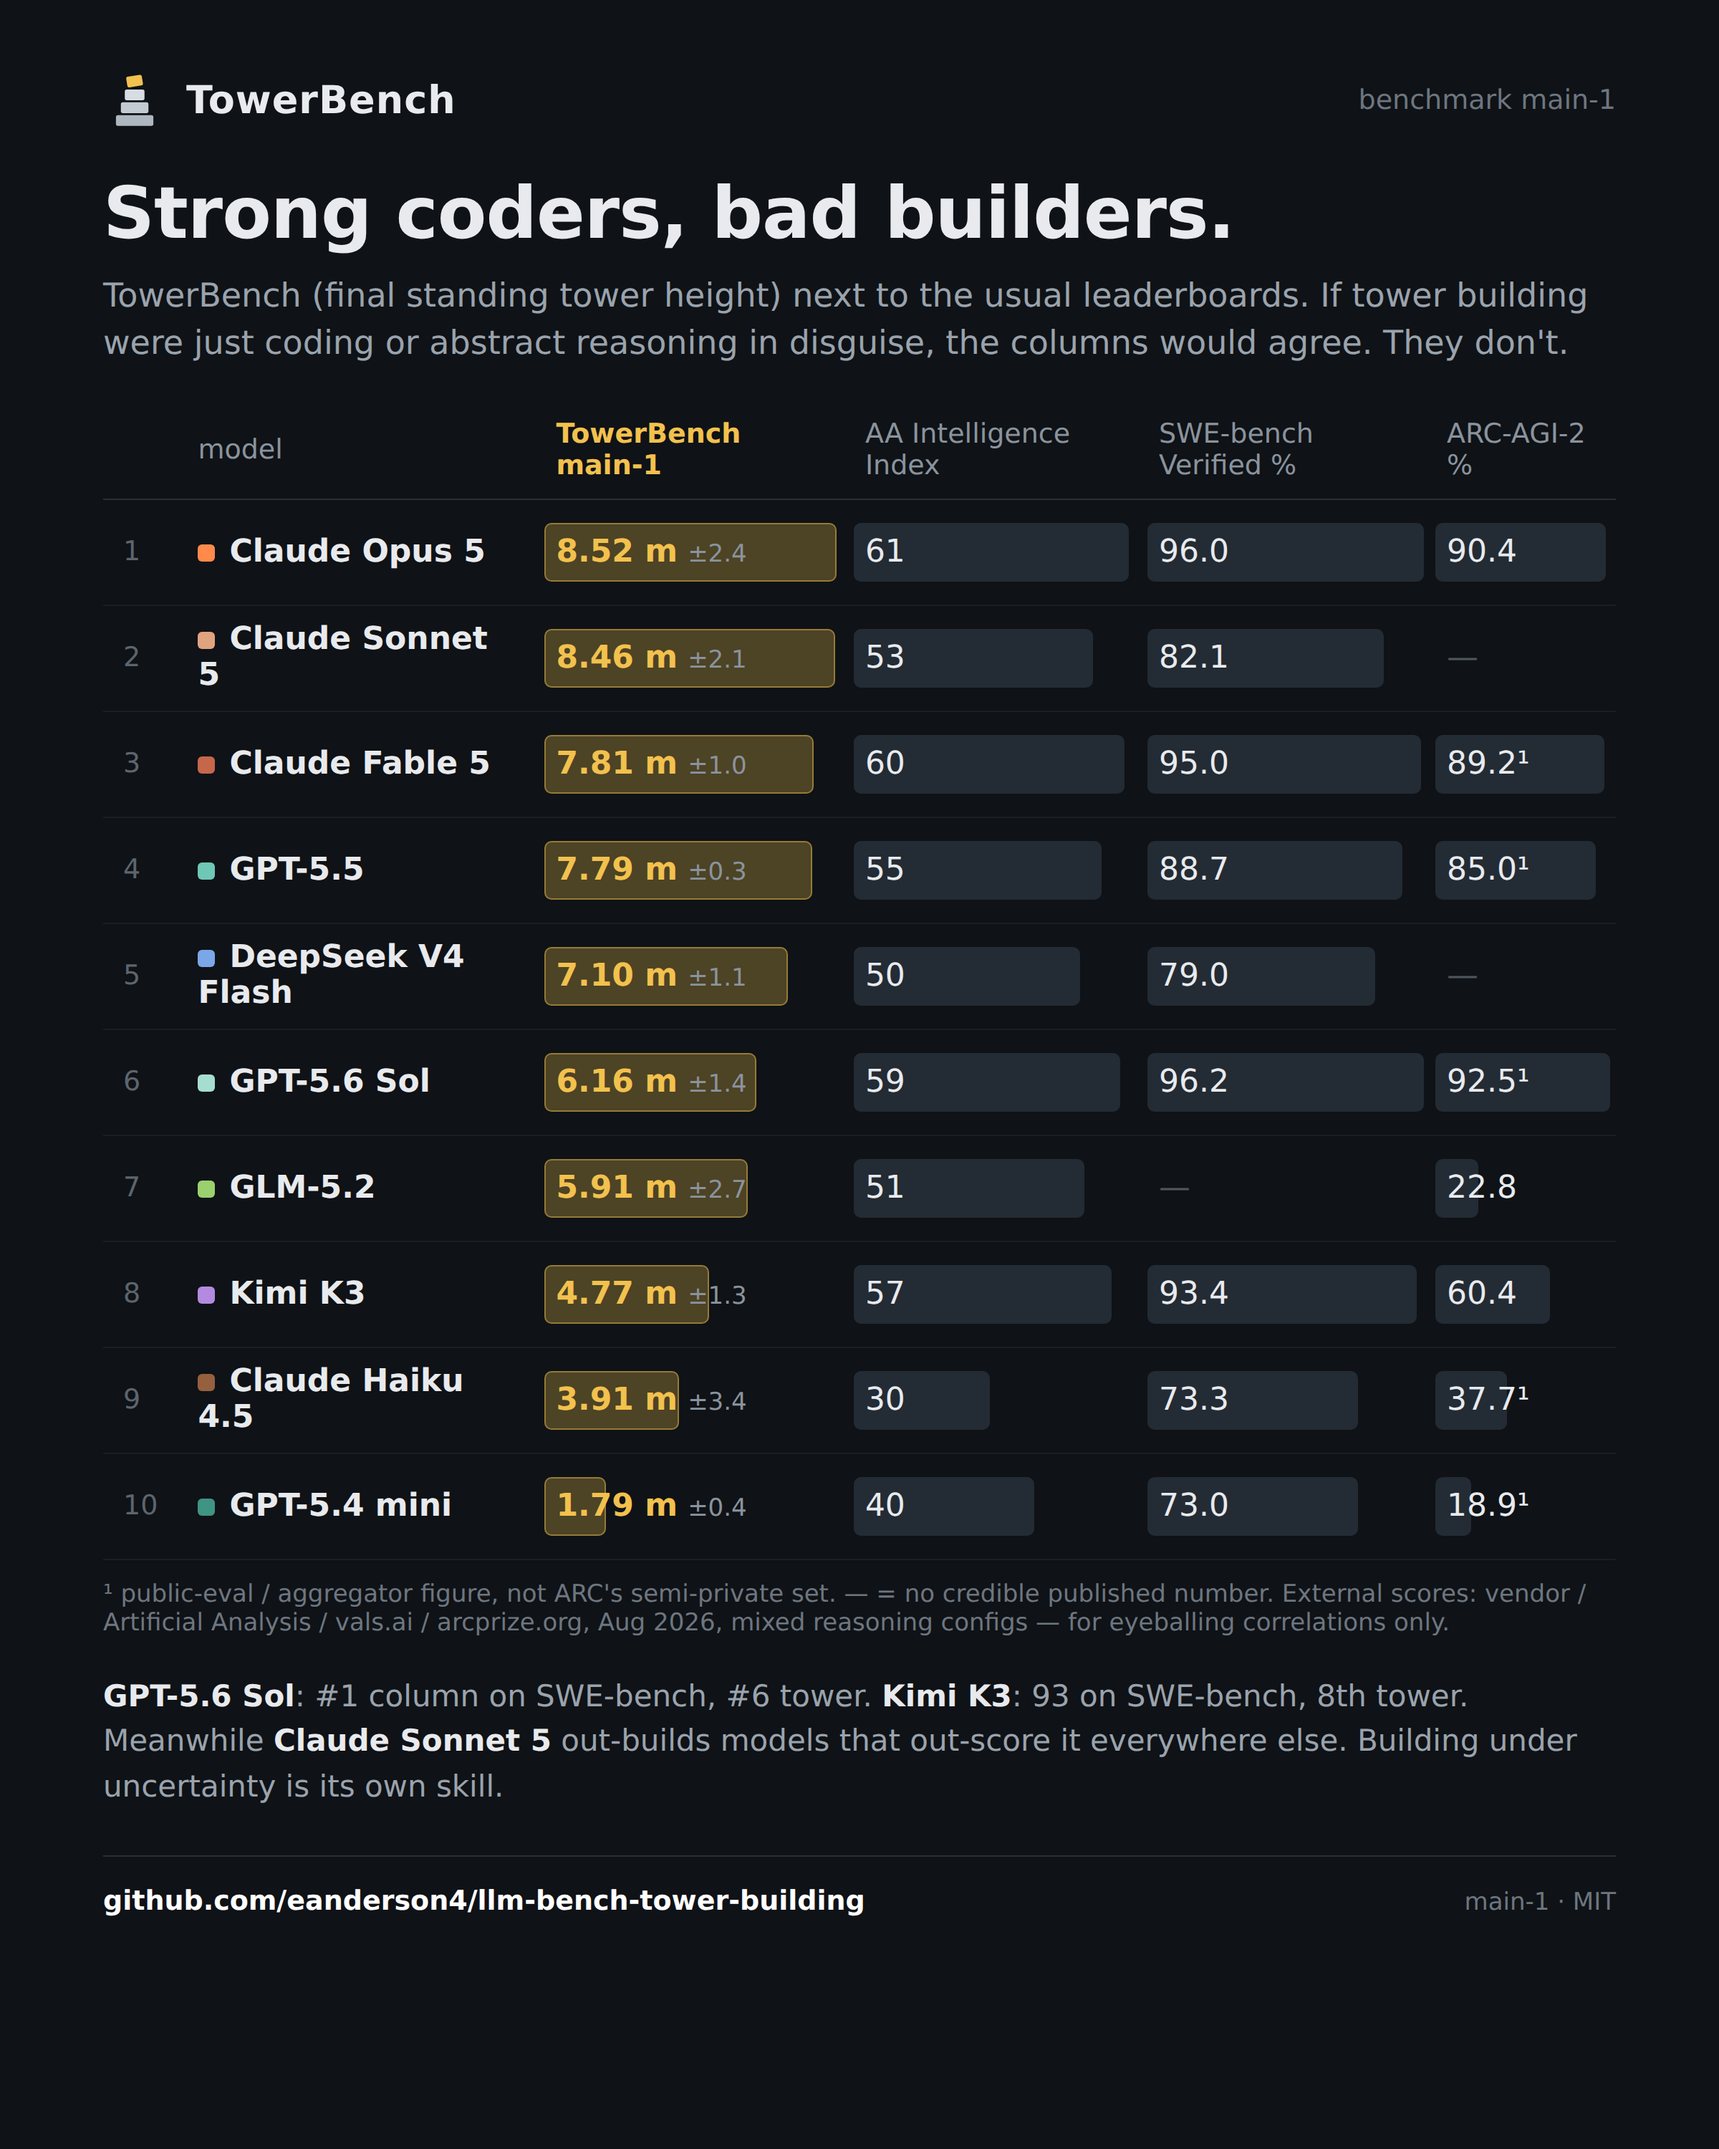
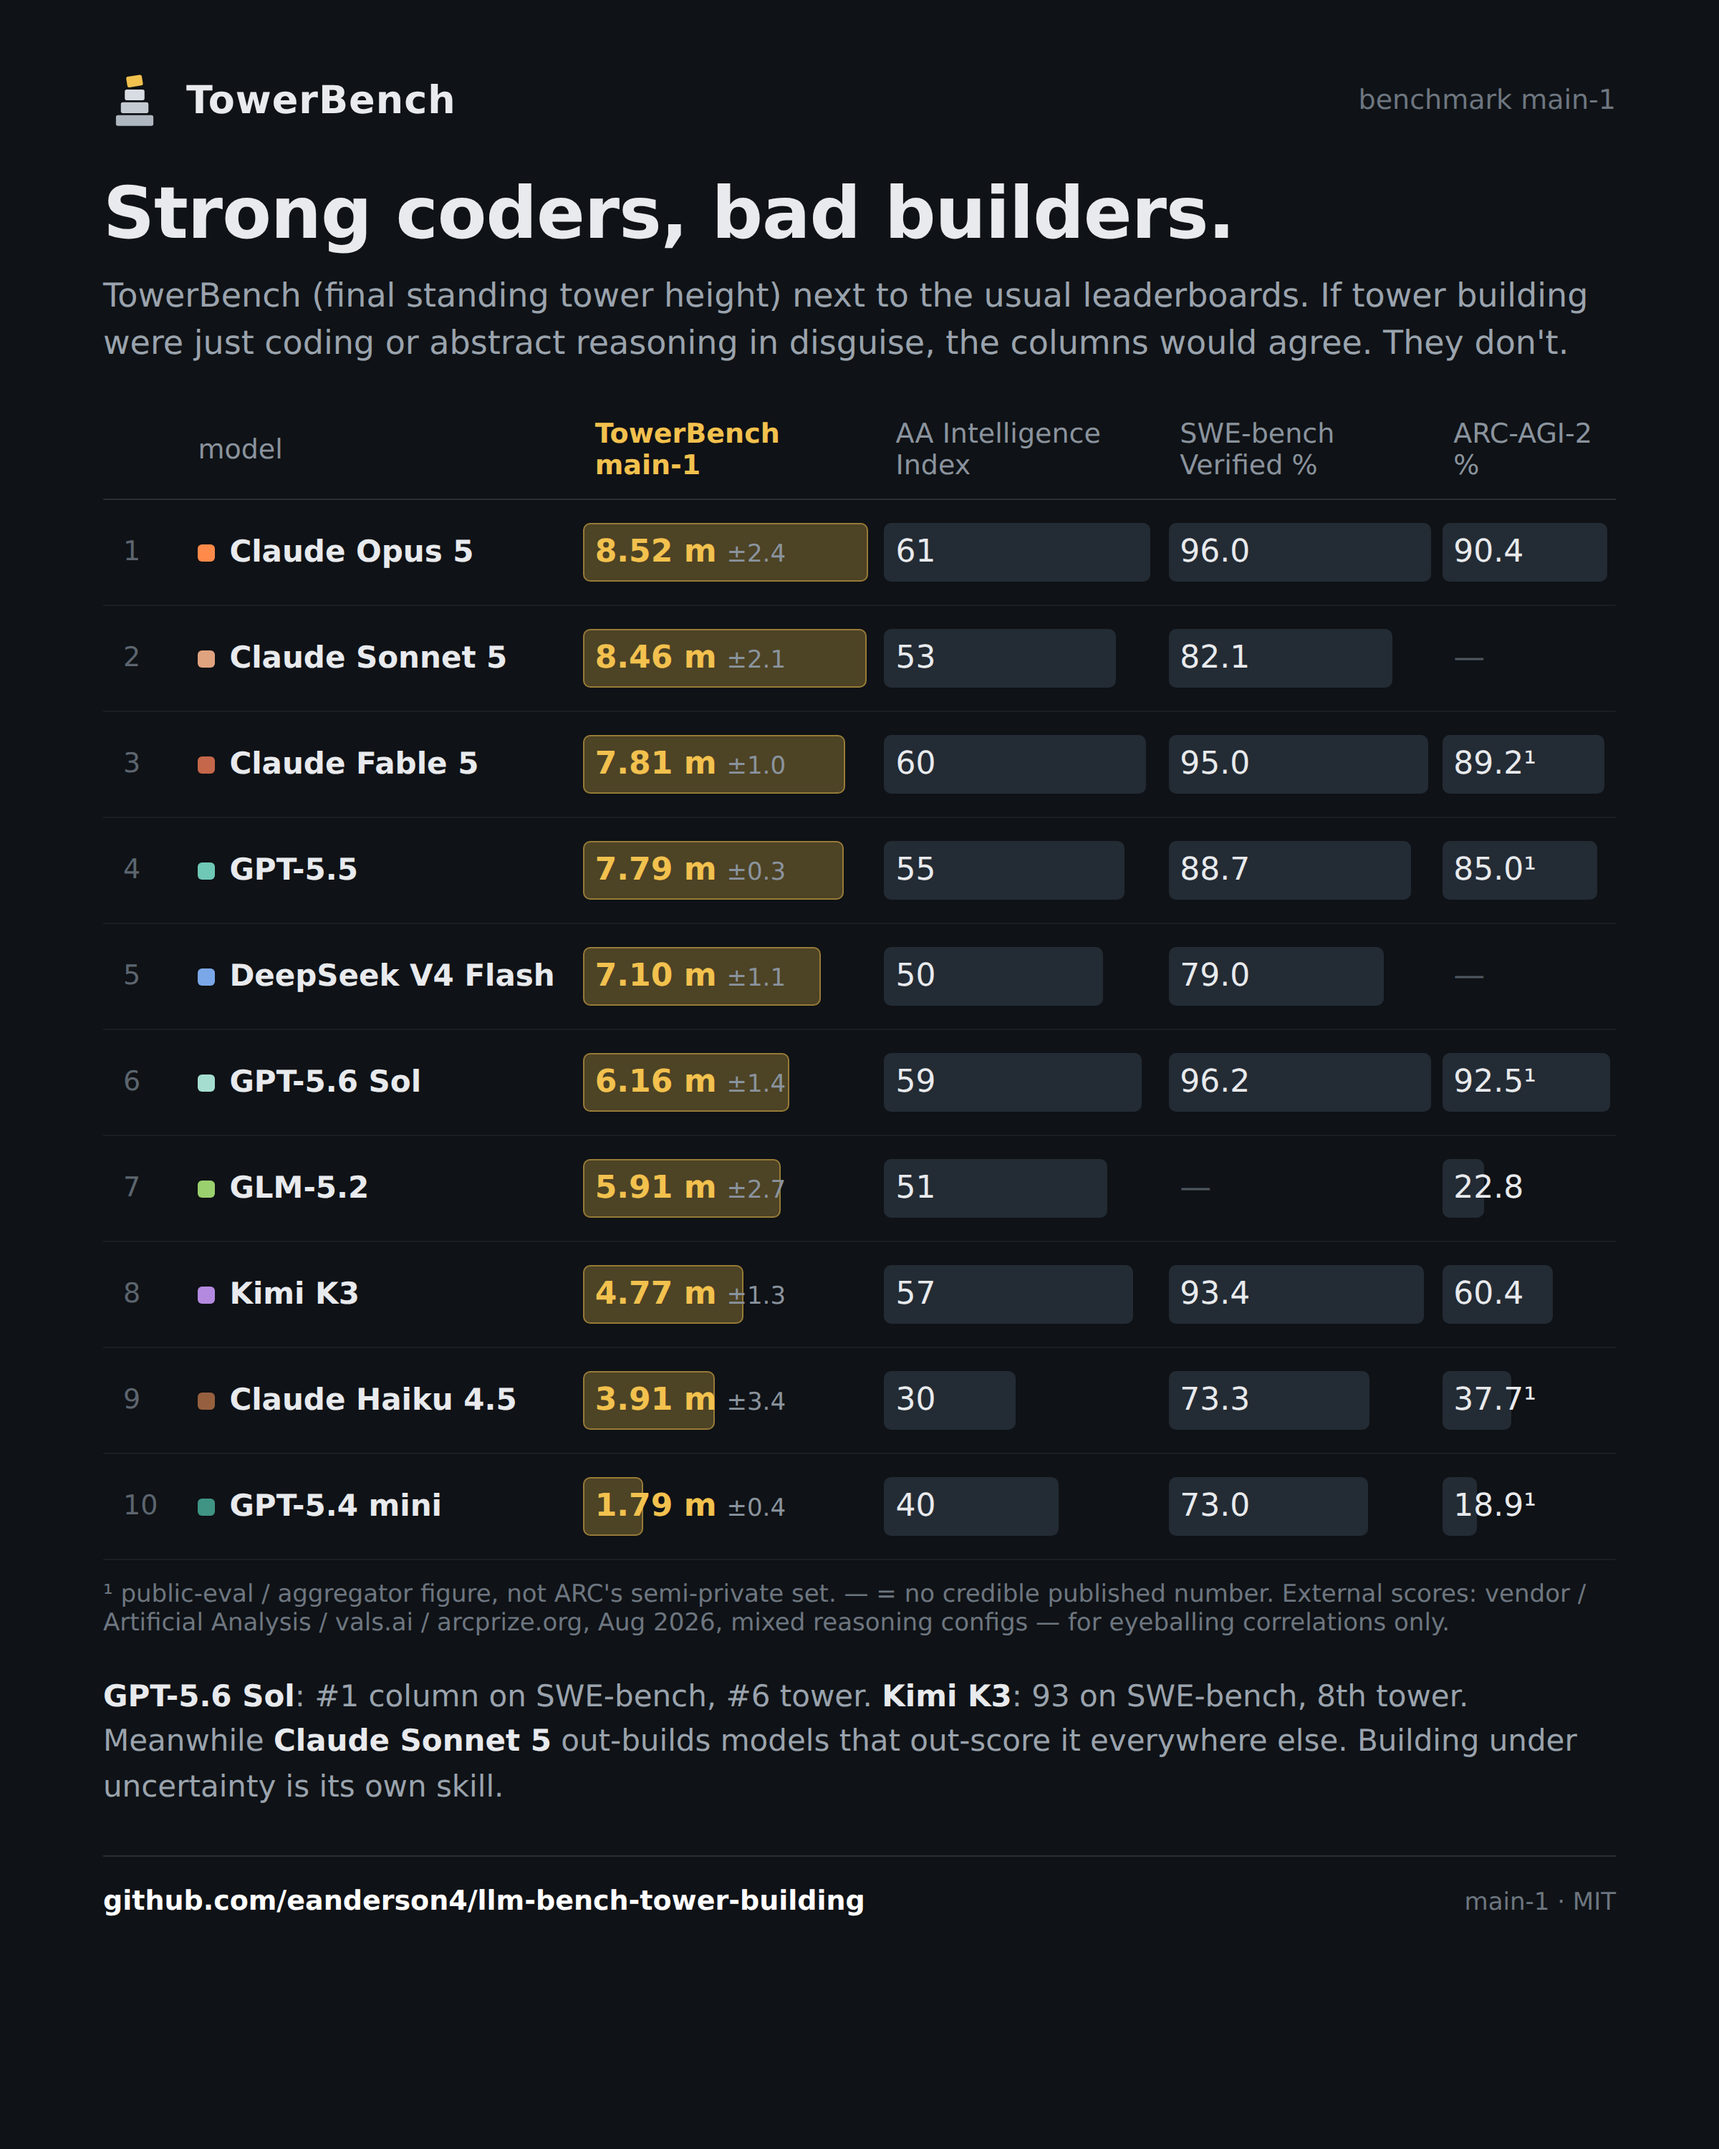
Compare matrix: no-wrap model names

diff --git a/scripts/infographic.ts b/scripts/infographic.ts
@@ -313,7 +313,7 @@ writeFileSync(
            vertical-align: middle; }
       td span { position: relative; }
       .rk { width: 44px; color: #5c656f; font-size: 19px; }
-      .mdl { width: 250px; font-weight: 700; }
+      .mdl { width: 268px; font-weight: 700; font-size: 21px; white-space: nowrap; }
       .chip { display: inline-block; width: 12px; height: 12px; border-radius: 3px; margin-right: 10px; }
       .cellbar { position: absolute; left: 6px; top: 16px; bottom: 16px; background: #232b34; border-radius: 5px; }
       .tbbar { background: rgba(242,193,78,0.28); border: 1px solid rgba(242,193,78,0.45); }
